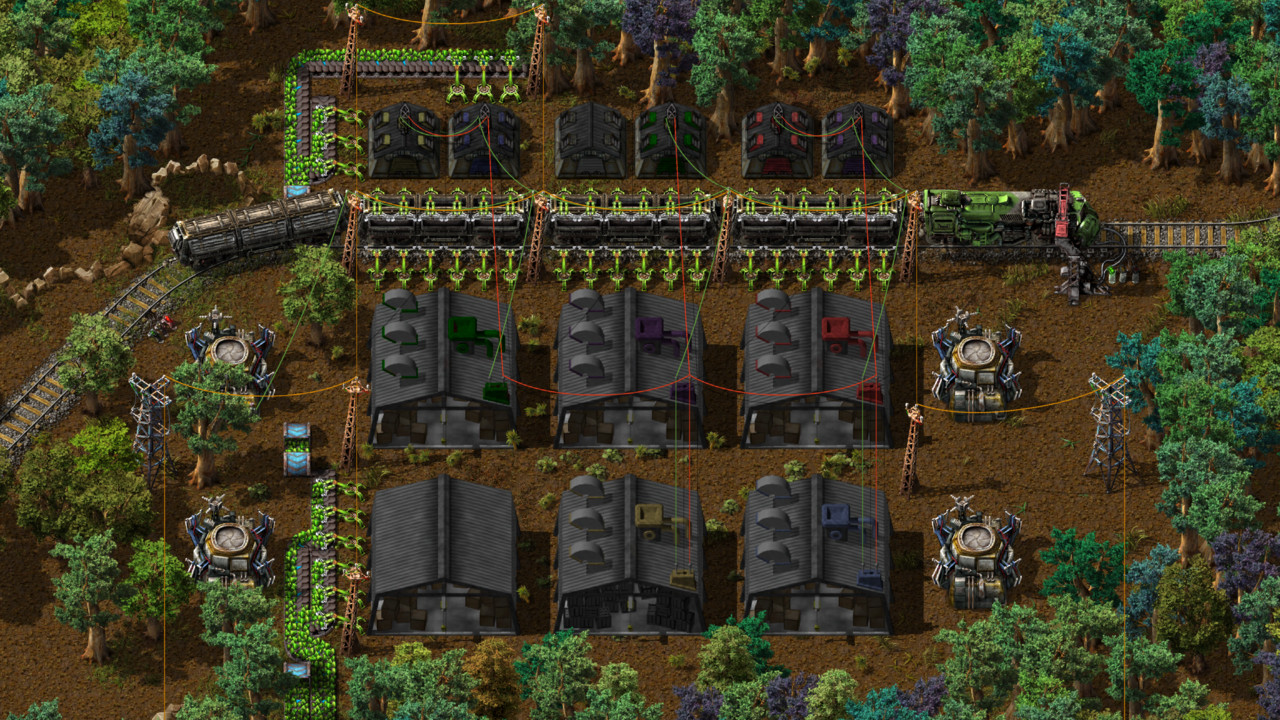
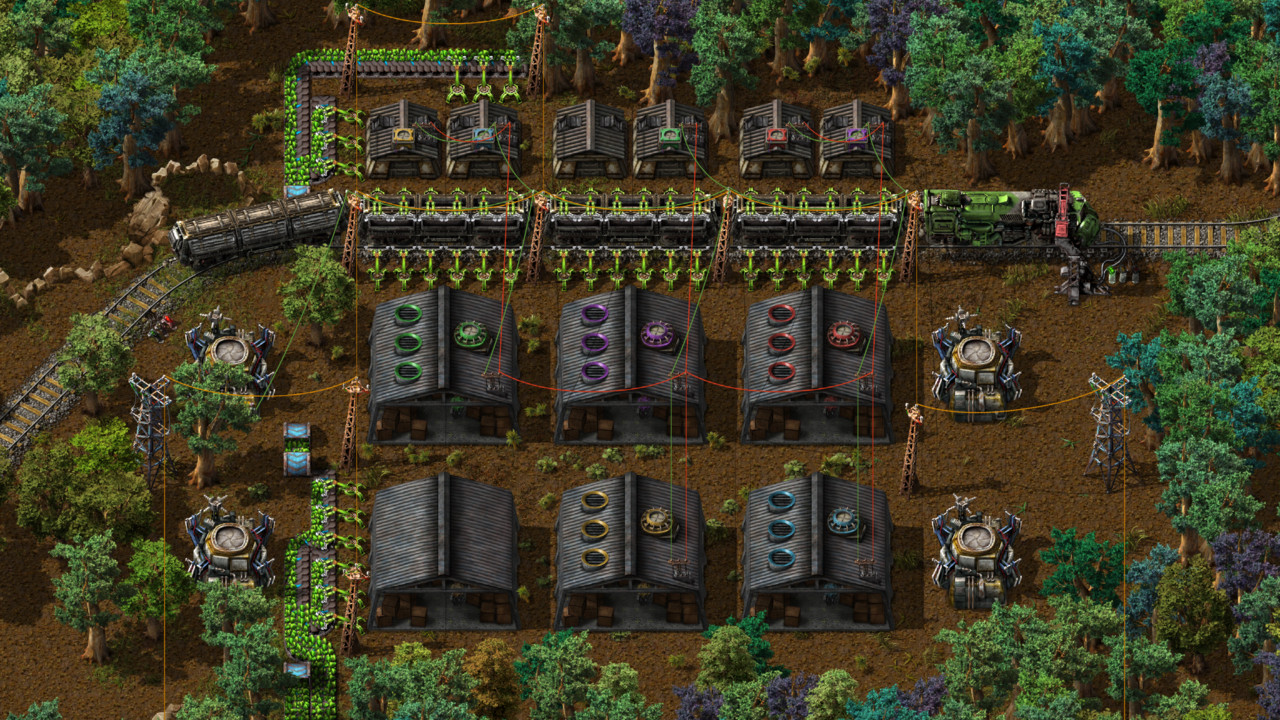
readme: update outdated/broken graphics
Files moved around in snouz's overhaul broke Readme previews of each
warehouse type. Updated "hero" image while at it.

diff --git a/Readme.md b/Readme.md
@@ -197,19 +197,19 @@ Translations kindly provided by the following people:
 | :ukraine:        | Ukrainian              | antonus777<br>ddayver                                                       |
 
 
-  [warehouse-basic]: https://raw.githubusercontent.com/Warehousing/Warehousing/master/graphics/entity/warehouse-basic.png
-  [warehouse-storage]: https://raw.githubusercontent.com/Warehousing/Warehousing/master/graphics/entity/warehouse-storage.png
-  [warehouse-passive-provider]: https://raw.githubusercontent.com/Warehousing/Warehousing/master/graphics/entity/warehouse-passive-provider.png
-  [warehouse-active-provider]: https://raw.githubusercontent.com/Warehousing/Warehousing/master/graphics/entity/warehouse-active-provider.png
-  [warehouse-requester]: https://raw.githubusercontent.com/Warehousing/Warehousing/master/graphics/entity/warehouse-requester.png
-  [warehouse-buffer]: https://raw.githubusercontent.com/Warehousing/Warehousing/master/graphics/entity/warehouse-buffer.png
+  [warehouse-basic]: https://raw.githubusercontent.com/Warehousing/Warehousing/master/graphics/entity/warehouse/warehouse-basic.png
+  [warehouse-storage]: https://raw.githubusercontent.com/Warehousing/Warehousing/master/graphics/entity/warehouse/warehouse-storage.png
+  [warehouse-passive-provider]: https://raw.githubusercontent.com/Warehousing/Warehousing/master/graphics/entity/warehouse/warehouse-passive-provider.png
+  [warehouse-active-provider]: https://raw.githubusercontent.com/Warehousing/Warehousing/master/graphics/entity/warehouse/warehouse-active-provider.png
+  [warehouse-requester]: https://raw.githubusercontent.com/Warehousing/Warehousing/master/graphics/entity/warehouse/warehouse-requester.png
+  [warehouse-buffer]: https://raw.githubusercontent.com/Warehousing/Warehousing/master/graphics/entity/warehouse/warehouse-buffer.png
 
-  [storehouse-basic]: https://raw.githubusercontent.com/Warehousing/Warehousing/master/graphics/entity/storehouse-basic.png
-  [storehouse-storage]: https://raw.githubusercontent.com/Warehousing/Warehousing/master/graphics/entity/storehouse-storage.png
-  [storehouse-passive-provider]: https://raw.githubusercontent.com/Warehousing/Warehousing/master/graphics/entity/storehouse-passive-provider.png
-  [storehouse-active-provider]: https://raw.githubusercontent.com/Warehousing/Warehousing/master/graphics/entity/storehouse-active-provider.png
-  [storehouse-requester]: https://raw.githubusercontent.com/Warehousing/Warehousing/master/graphics/entity/storehouse-requester.png
-  [storehouse-buffer]: https://raw.githubusercontent.com/Warehousing/Warehousing/master/graphics/entity/storehouse-buffer.png
+  [storehouse-basic]: https://raw.githubusercontent.com/Warehousing/Warehousing/master/graphics/entity/storehouse/storehouse-basic.png
+  [storehouse-storage]: https://raw.githubusercontent.com/Warehousing/Warehousing/master/graphics/entity/storehouse/storehouse-storage.png
+  [storehouse-passive-provider]: https://raw.githubusercontent.com/Warehousing/Warehousing/master/graphics/entity/storehouse/storehouse-passive-provider.png
+  [storehouse-active-provider]: https://raw.githubusercontent.com/Warehousing/Warehousing/master/graphics/entity/storehouse/storehouse-active-provider.png
+  [storehouse-requester]: https://raw.githubusercontent.com/Warehousing/Warehousing/master/graphics/entity/storehouse/storehouse-requester.png
+  [storehouse-buffer]: https://raw.githubusercontent.com/Warehousing/Warehousing/master/graphics/entity/storehouse/storehouse-buffer.png
 
   [hero-image]: https://raw.githubusercontent.com/Warehousing/Warehousing/master/hero-image.jpg
 
